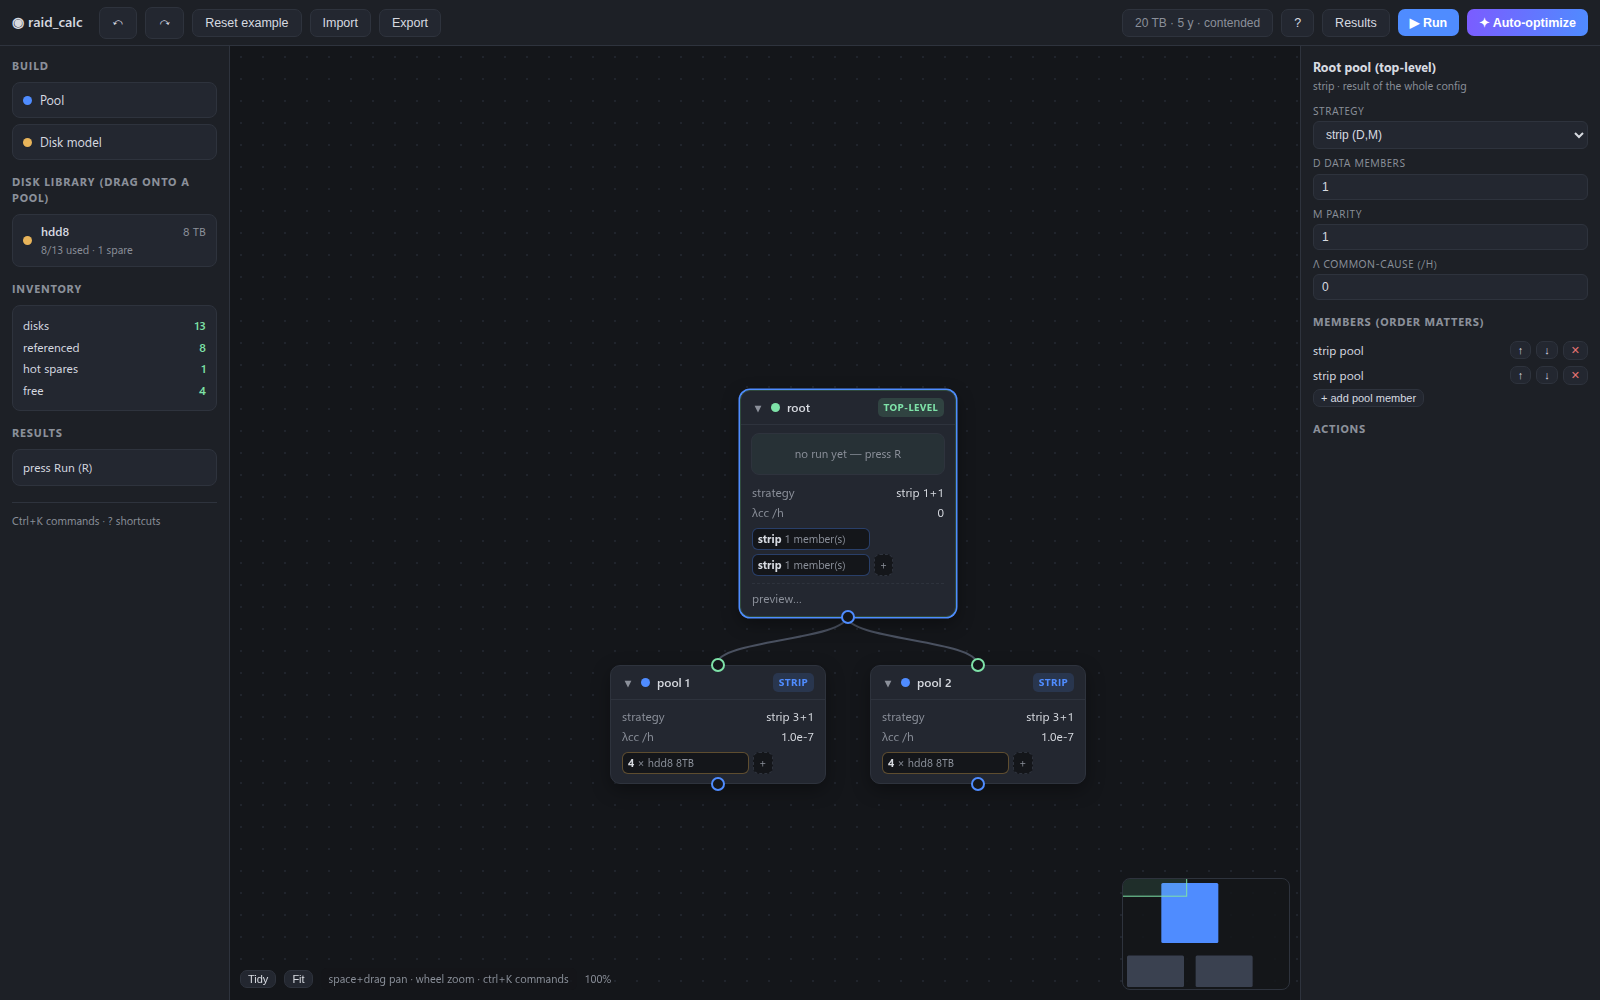
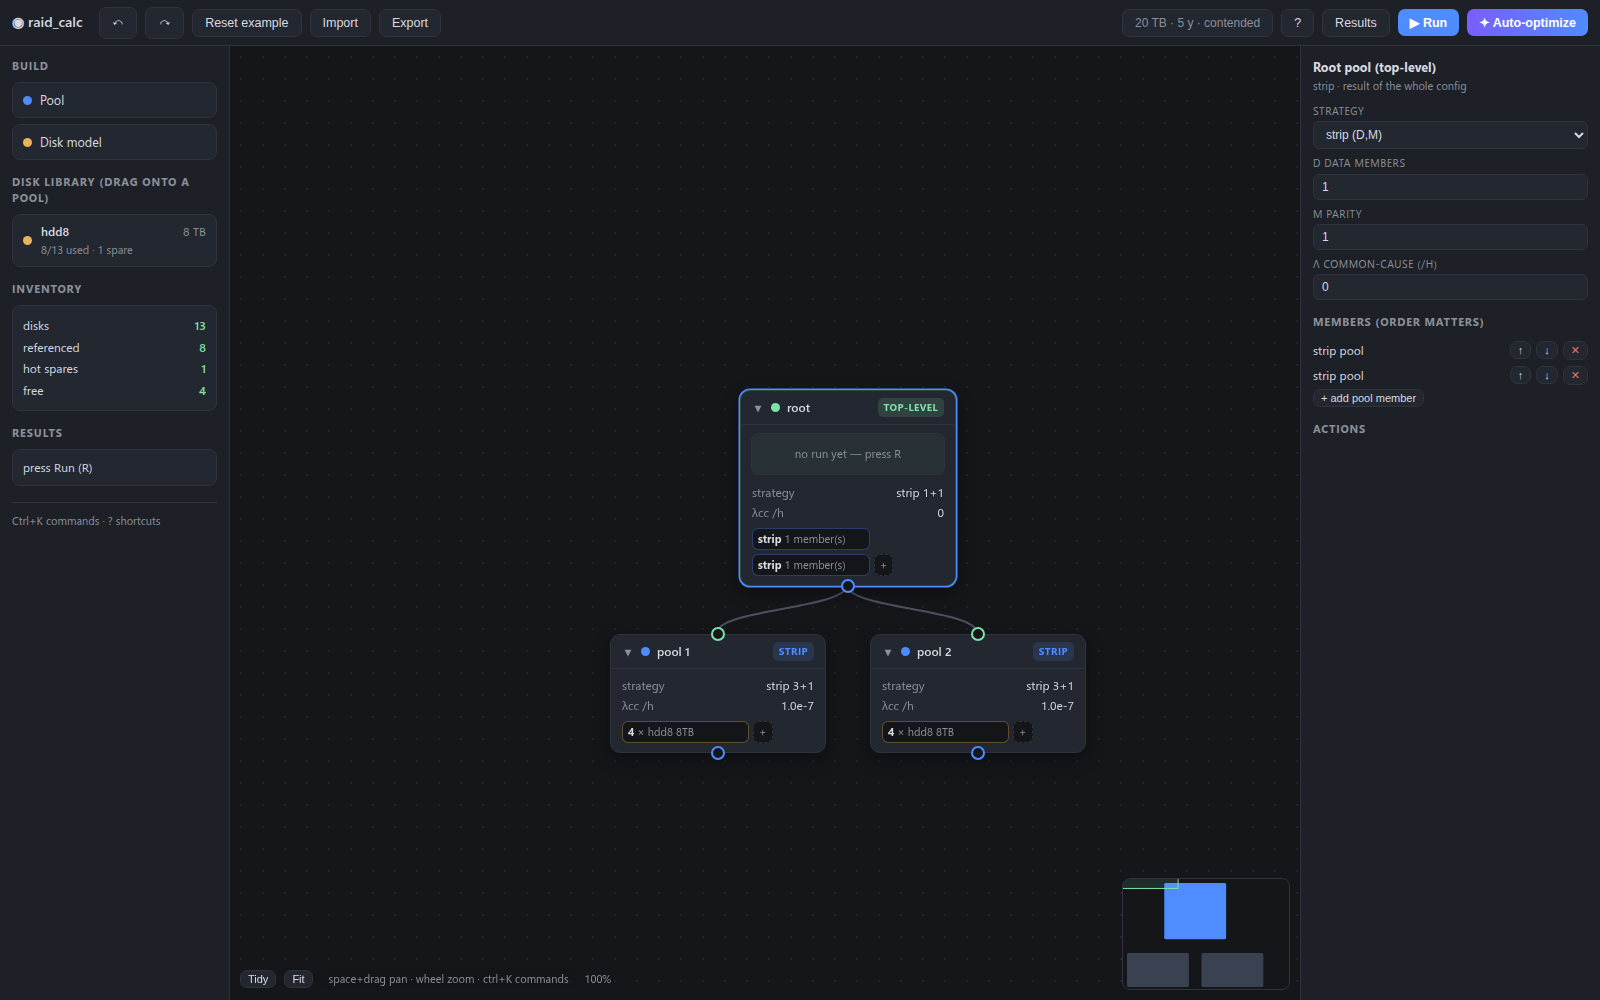
fix(14): review round 2 — stale form state, double-click stability, input buttons, hover cut (ticket 14)
Second adversarial pass found four more real defects; all fixed, each now covered by a smoke check:

- the properties panel never refreshed after an edit, so two consecutive disk-model edits reverted each
  other (the kind branch spread a stale render snapshot) and member-row buttons carried stale slot
  indices — a second ✕ deleted the wrong member. Kind fields now re-resolve the node at commit time, and
  structural edits (strategy, member ±/↑/↓/✕, add member) re-render the panel as well as the canvas.
- double-click-to-edit failed on an *unselected* card: the preview block grew the card after the first
  click, the layout re-ran, the card moved 31px and the second click hit a chip button. The standalone
  preview is now a popover anchored beneath the card (pointer-events:none), so selecting never changes a
  card's height; the smoke asserts the card does not move and no config change happens on a double-click.
- onPointerDown ignored the button: middle-drag (the documented pan gesture) dragged cards and committed
  positions into ui.pos and the undo history, and right-drag dragged the card behind its menu.
- the hover ✕ on a wire removed itself as soon as the pointer left the wire, so it could never be
  clicked; removal is now delayed and cancelled by the button itself, and the smoke clicks it.
- preview went permanently blank after a property edit (results were never cached and no re-schedule);
  preview results are cached in cardResults and re-scheduled after edits.
[…]

diff --git a/src/ui/canvas.js b/src/ui/canvas.js
@@ -389,11 +389,9 @@ export function sparkSvg(values, w, h) {
   return svg;
 }
 
-// Fill a card's standalone-preview block. Exported so main.js can refresh it in place (a full
-// re-render would clobber an in-progress properties-panel edit).
+// Fill the standalone-preview popover. Exported so main.js can refresh it in place.
 export function renderPreviewBlock(box, p) {
   box.innerHTML = "";
-  box.className = "nodepreview";
   if (!p) {
     box.appendChild(el("div", "preview…"));
     return;
@@ -529,6 +527,7 @@ export function renderCanvas({
   // card's height outside a render (the standalone-preview block arrives asynchronously), because a
   // grown card would otherwise sit on top of its own wire.
   const reflow = () => {
+    placePopover();
     let drifted = false;
     const live = new Set();
     for (const [id, c] of cards) {
@@ -550,29 +549,41 @@ export function renderCanvas({
   // Selection without a re-render: a rebuild here would swallow the second click of a double-click.
   const setSelectionInPlace = (next) => {
     selection = next;
-    for (const [id, c] of cards) {
-      c.el.classList.toggle("sel", id === next);
-      const old = c.el.querySelector(".nodepreview");
-      if (old) old.remove();
-    }
-    const c = cards.get(next);
-    if (c && !collapsed[next]) {
-      const bd = c.el.querySelector(".bd");
-      if (bd) {
-        const box = previewPlaceholder();
-        renderPreviewBlock(box, results.get(next));
-        bd.appendChild(box);
-      }
-    }
-    reflow();
+    for (const [id, c] of cards) c.el.classList.toggle("sel", id === next);
+    showPreview(next, results.get(next));
     drawMinimap();
   };
 
-  const previewPlaceholder = () => {
-    const box = el("div");
-    box.className = "nodepreview";
-    box.appendChild(el("div", "preview…"));
-    return box;
+  // The preview is a popover anchored under the selected card, NOT a block inside it: growing a card
+  // after layout would move it (breaking the second click of a double-click) and let it cover its own
+  // wire. It is pointer-events:none, so it can never block a gesture.
+  const popover = el("div");
+  popover.className = "preview-pop";
+  popover.hidden = true;
+  world.appendChild(popover);
+  let popId = null;
+
+  const placePopover = () => {
+    const c = popId ? cards.get(popId) : null;
+    const p = popId ? positions.get(popId) : null;
+    if (!c || !p || collapsed[popId]) {
+      popover.hidden = true;
+      return;
+    }
+    popover.hidden = false;
+    popover.style.left = `${p.x}px`;
+    popover.style.top = `${p.y + (c.el.offsetHeight || 140) + 10}px`;
+    popover.style.width = `${NODE_W}px`;
+  };
+
+  const showPreview = (id, p) => {
+    popId = id;
+    if (!id) {
+      popover.hidden = true;
+      return;
+    }
+    renderPreviewBlock(popover, p);
+    placePopover();
   };
 
   const drawCard = (id) => {
@@ -654,11 +665,6 @@ export function renderCanvas({
       bd.appendChild(kvRow(null, "strategy", strategyText));
       bd.appendChild(kvRow("lambdaCC", "λcc /h", expfmt(node.lambdaCC)));
       bd.appendChild(memberChips(id, node));
-      if (selection === id) {
-        const box = previewPlaceholder();
-        renderPreviewBlock(box, results.get(id));
-        bd.appendChild(box);
-      }
     }
     card.appendChild(bd);
 
@@ -677,6 +683,7 @@ export function renderCanvas({
     inn.title = "member input — drop a pool here";
     card.appendChild(inn);
 
+    card.dataset.baseTitle = card.title || "";
     world.appendChild(card);
     cards.set(id, { el: card });
   };
@@ -869,7 +876,10 @@ export function renderCanvas({
   };
 
   const clearTargetStyles = () => {
-    for (const c of cards.values()) c.el.classList.remove("drop-ok", "drop-bad");
+    for (const c of cards.values()) {
+      c.el.classList.remove("drop-ok", "drop-bad");
+      if (c.el.dataset.baseTitle) c.el.title = c.el.dataset.baseTitle;
+    }
   };
 
   const showChip = (clientX, clientY, delta) => {
@@ -903,12 +913,25 @@ export function renderCanvas({
     chip.hidden = true;
   };
 
+  let hoverCutTimer = null;
   const removeHoverCut = () => {
+    clearTimeout(hoverCutTimer);
     if (hoverCut) hoverCut.remove();
     hoverCut = null;
   };
+  // Removing the button the instant the pointer leaves the wire makes it impossible to click: the
+  // pointer must travel from the wire onto the button. Delay removal and let the button cancel it.
+  const scheduleHoverCutRemoval = () => {
+    clearTimeout(hoverCutTimer);
+    hoverCutTimer = setTimeout(() => removeHoverCut(), 220);
+  };
+  const cancelHoverCutRemoval = () => clearTimeout(hoverCutTimer);
 
   const addHoverCut = (childId, a, b) => {
+    if (hoverCut && hoverCut.dataset.child === childId) {
+      cancelHoverCutRemoval();
+      return;
+    }
     removeHoverCut();
     const bx = (a.x + b.x) / 2 + 10;
     const by = (a.y + b.y) / 2 - 9;
@@ -930,6 +953,9 @@ export function renderCanvas({
       ev.preventDefault();
       if (actions.onCutLink) actions.onCutLink(childId);
     });
+    g.addEventListener("pointerenter", cancelHoverCutRemoval);
+    g.addEventListener("pointerleave", scheduleHoverCutRemoval);
+    g.dataset.child = childId;
     edgeLayer.appendChild(g);
     hoverCut = g;
   };
@@ -1129,6 +1155,10 @@ export function renderCanvas({
   };
 
   const onPointerDown = (e) => {
+    // Only the primary button drives the canvas: middle-drag pans and right-drag opens the context
+    // menu, both handled by their own listeners.
+    if (e.button !== 0) return;
+    if (gesture) abortGesture(); // a second pointer (multitouch) must not hijack a live gesture
     // Wires are selected on pointerdown, not click: selecting on click would have to survive the
     // re-render that deselecting on empty canvas triggers between down and up, which moves the click
     // target to the canvas and loses the event entirely.
@@ -1205,6 +1235,10 @@ export function renderCanvas({
   container.__dragActive = () => !!gesture;
   container.__setSelection = setSelectionInPlace;
   container.__reflow = reflow;
+  container.__showPreview = (id, p) => {
+    if (id !== selection) return;
+    showPreview(id, p);
+  };
 
   const onContextMenuEvent = (e) => {
     const card = e.target.closest(".node");
@@ -1220,7 +1254,7 @@ export function renderCanvas({
     if (ed) addHoverCut(hit.dataset.child, ed.a, ed.b);
   });
   edgeLayer.addEventListener("pointerout", (e) => {
-    if (e.target.closest(".wire-hit")) removeHoverCut();
+    if (e.target.closest(".wire-hit")) scheduleHoverCutRemoval();
   });
   // space-drag pan
   const spacePanDown = (e) => {

diff --git a/src/ui/main.js b/src/ui/main.js
@@ -7,7 +7,6 @@
 import { createStore, downloadConfig, readConfigFile } from "./app.js";
 import {
   renderCanvas,
-  renderPreviewBlock,
   resolvePath,
   isPoolNode,
   parentPathOf,
@@ -402,6 +401,22 @@ export function createApp(rootEl, { initialConfig = SAMPLE_CONFIG } = {}) {
       if (ok) {
         renderCanvasOnly();
         renderSidebar(store.get());
+        // the config changed, so the standalone preview is stale
+        cardResults.delete(selection);
+        schedulePreview();
+      }
+      return ok;
+    },
+    // A structural edit changes the shape of the form itself (member rows, strategy fields), so the
+    // panel is rebuilt on top of the canvas and sidebar refresh.
+    onStructural: (mutator, label) => {
+      const ok = commit(mutator, label);
+      if (ok) {
+        renderCanvasOnly();
+        renderSidebar(store.get());
+        renderProps(props, propsArgs());
+        cardResults.delete(selection);
+        schedulePreview();
       }
       return ok;
     },
@@ -464,8 +479,8 @@ export function createApp(rootEl, { initialConfig = SAMPLE_CONFIG } = {}) {
     if (!path || path === SCENARIO_ID) return;
     if (path.startsWith("kinds.")) {
       const id = path.slice(6);
-      commit((c) => removeKind(c, id), "delete disk model");
-      if (selection === path) selection = "tree";
+      if (commit((c) => removeKind(c, id), "delete disk model") && selection === path)
+        selection = "tree";
       renderAll();
       return;
     }
@@ -473,15 +488,15 @@ export function createApp(rootEl, { initialConfig = SAMPLE_CONFIG } = {}) {
       toast("the root cannot be deleted — promote another pool first", "bad");
       return;
     }
-    commit((c) => removeNode(c, path), "delete pool");
-    if (selection === path) selection = "tree";
+    if (commit((c) => removeNode(c, path), "delete pool") && selection === path)
+      selection = "tree";
     renderAll();
   };
 
   // Wrap `id` in a fresh concat pool that takes its place as a sibling.
   const wrapInPool = (id) => {
-    if (!id || id === "tree" || id === SCENARIO_ID) {
-      toast("select a pool first", "bad");
+    if (!id || !/\.members\[\d+\]$/.test(id) || id === "tree" || id === SCENARIO_ID) {
+      toast("select a pool that already sits inside another pool", "bad");
       return;
     }
     const parent = parentPathOf(id);
@@ -841,20 +856,14 @@ export function createApp(rootEl, { initialConfig = SAMPLE_CONFIG } = {}) {
         stateBudget: 20000,
         points: 25,
       });
-      const box = [...canvas.querySelectorAll(".node")].find(
-        (n) => n.dataset.id === path,
-      );
-      const block = box && box.querySelector(".nodepreview");
-      if (!block) return;
       if (!ok) {
-        renderPreviewBlock(block, { error: error || "unsupported subtree" });
-        if (canvas.__reflow) canvas.__reflow();
+        if (canvas.__showPreview)
+          canvas.__showPreview(path, { error: error || "unsupported subtree" });
         return;
       }
       const p = cardResult(result);
-      renderPreviewBlock(block, p);
-      // the block just changed the card's height, so the layout must catch up
-      if (canvas.__reflow) canvas.__reflow();
+      cardResults.set(path, p);
+      if (canvas.__showPreview) canvas.__showPreview(path, p);
     }, 300);
   };
 

diff --git a/src/ui/props.js b/src/ui/props.js
@@ -39,7 +39,7 @@ function selectedNodeInfo(config, selection) {
 
 export function renderProps(
   root,
-  { config, selection, onSet, onPromote, onDelete, previewNote },
+  { config, selection, onSet, onStructural, onPromote, onDelete, previewNote },
 ) {
   root.innerHTML = "";
   const info = selectedNodeInfo(config, selection);
@@ -177,7 +177,7 @@ export function renderProps(
   if (info.type === "pool") {
     root.appendChild(
       select("Strategy", Object.entries(STRATEGY_LABELS), info.node.strategy, (s) =>
-        onSet((cfg) => switchStrategy(cfg, info.path, s), "strategy"),
+        onStructural((cfg) => switchStrategy(cfg, info.path, s), "strategy"),
       ),
     );
     if (info.node.strategy === "strip")
@@ -202,10 +202,10 @@ export function renderProps(
         el("span", isKindNode(m) ? `${m.count}× ${m.kind}` : `${m.strategy} pool`),
       );
       const up = tiny("↑", () =>
-        onSet((cfg) => reorderMember(cfg, info.path, i, -1), "reorder"),
+        onStructural((cfg) => reorderMember(cfg, info.path, i, -1), "reorder"),
       );
       const down = tiny("↓", () =>
-        onSet((cfg) => reorderMember(cfg, info.path, i, 1), "reorder"),
+        onStructural((cfg) => reorderMember(cfg, info.path, i, 1), "reorder"),
       );
       up.disabled = i === 0;
       down.disabled = i === info.node.members.length - 1;
@@ -214,7 +214,7 @@ export function renderProps(
       if (isKindNode(m)) {
         row.appendChild(
           tiny("+1", () =>
-            onSet(
+            onStructural(
               (cfg) => setMemberCount(cfg, info.path, i, (m.count ?? 1) + 1),
               "member +1",
             ),
@@ -224,7 +224,11 @@ export function renderProps(
       row.appendChild(
         tiny(
           "✕",
-          () => onSet((cfg) => removeNode(cfg, `${info.path}.members[${i}]`), "remove member"),
+          () =>
+            onStructural(
+              (cfg) => removeNode(cfg, `${info.path}.members[${i}]`),
+              "remove member",
+            ),
           "danger",
         ),
       );
@@ -233,7 +237,10 @@ export function renderProps(
     root.appendChild(list);
     root.appendChild(
       tiny("+ add pool member", () =>
-        onSet((cfg) => addPool(cfg, { strategy: "concat", parentPath: info.path }), "add member"),
+        onStructural(
+          (cfg) => addPool(cfg, { strategy: "concat", parentPath: info.path }),
+          "add member",
+        ),
       ),
     );
 
@@ -367,13 +374,9 @@ const keyCtx = {
 // address config.global / config.workload.
 function setField(cfg, info, key, value) {
   if (info.type === "kind") {
-    return {
-      ...cfg,
-      kinds: {
-        ...cfg.kinds,
-        [info.path.slice(6)]: { ...info.node, [key]: value },
-      },
-    };
+    const id = info.path.slice(6);
+    const current = resolvePath(cfg, info.path);
+    return { ...cfg, kinds: { ...cfg.kinds, [id]: { ...current, [key]: value } } };
   }
   if (info.type === "pool") {
     const node = resolvePath(cfg, info.path);

diff --git a/index.html b/index.html
@@ -118,7 +118,8 @@
   .chip .x.rm:hover{color:var(--bad);}
   .chip.add{cursor:pointer; border-style:dashed;}
   .chip.add:hover{border-color:var(--accent); color:var(--accent);}
-  .nodepreview{margin-top:7px; border-top:1px dashed var(--line); padding-top:6px;}
+  .preview-pop{position:absolute; z-index:4; pointer-events:none; background:rgba(20,22,26,.94);
+    border:1px dashed var(--line); border-radius:8px; padding:7px 9px;}
   .np-row{display:flex; justify-content:space-between; gap:8px; font-size:11px;}
   .np-row b{color:var(--accent2);}
   .np-err{font-size:11px; color:var(--warn);}
